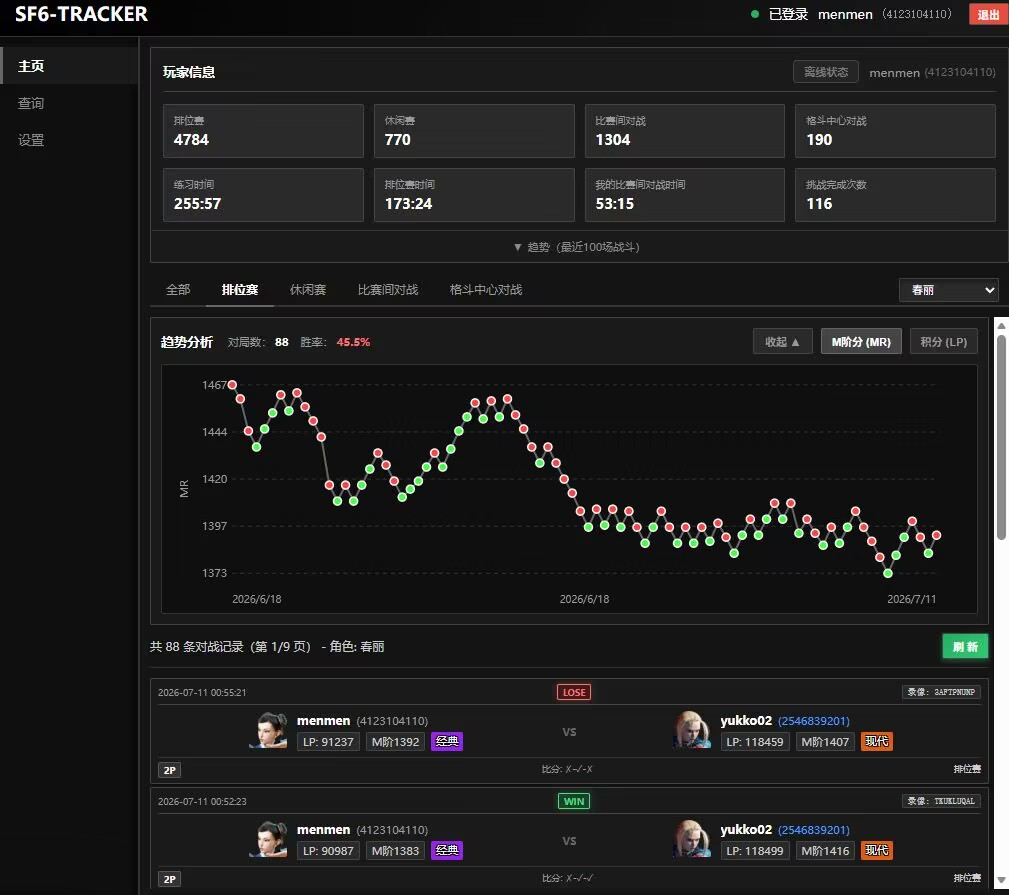
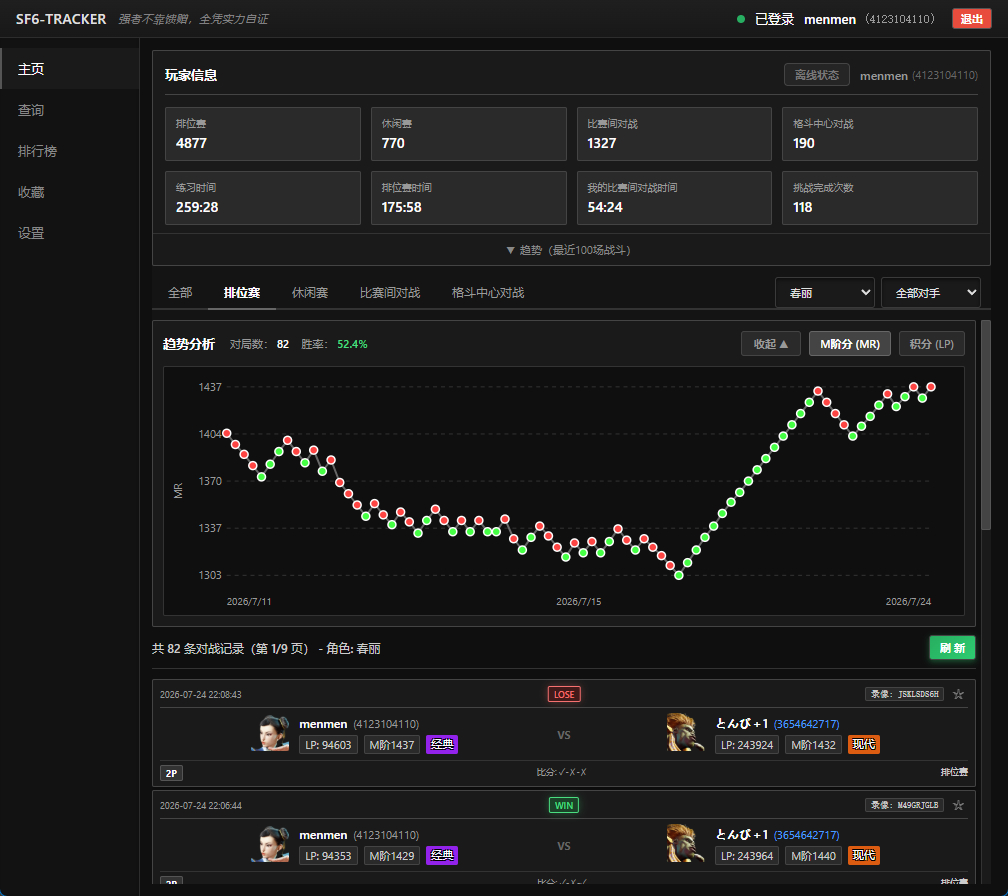
v0.2上传喵

diff --git a/README.md b/README.md
@@ -65,7 +65,7 @@ cd sf6-tracker
 # 安装依赖
 pip install -r requirements.txt
 ```
-或者直接下载已发布的版本 [SF6-Tracker.exe](https://github.com/HuuuugePony/sf6-tracker/releases/download/stable/SF6-Tracker-v0.1.exe)
+或者直接下载已发布的版本 [SF6-Tracker.exe](https://github.com/HuuuugePony/sf6-tracker/releases/download/stable/SF6-Tracker-v0.2.exe)
 
 ---
 
